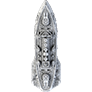
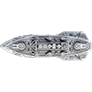
Animacion lista

diff --git a/War/Vessel.cs b/War/Vessel.cs
@@ -19,7 +19,7 @@ namespace War
             _CurrentInstruction = 0;
 
             _Id = rdn.Next(100, 999);
-            Grade = 90;
+            Grade = 0;
             Action = "STOP";
             Value = 0;
             Active = false;
@@ -241,7 +241,7 @@ namespace War
                     {
                         Active = false;
                         Action = "STOP";
-                        Grade = 90;
+                        Grade = 0;
                         Value = 0;
                     }
                 }
@@ -250,7 +250,7 @@ namespace War
                     Console.WriteLine(e.ToString());
                     Action = "STOP";
                     Active = false;
-                    Grade = 90;
+                    Grade = 0;
                     Value = 0;
                 }
             }         
@@ -269,20 +269,29 @@ namespace War
         //Pendiente
         private void shoot(float pValor, float pGrado)
         {
-            Console.WriteLine("shooting");
             Bullet bullet = new Bullet(pValor, pGrado, this.PosX, this.PosY);
             Bullets.Add(bullet);
             UpdateBullets();
         }
         public void move()
         {
-            Console.WriteLine("moving from: " + PosX + "x" + PosY);
-            float nPosX = PosX + (float)Math.Sin(Grade);
-            float nPosY = PosY - (float)Math.Cos(Grade);
+            float nPosX = 0;
+            float nPosY = 0;
+            //Console.WriteLine("moving from: " + PosX + "x" + PosY);
+            if (Grade >= 0 && Grade < 180)
+            {
+                nPosX = PosX + (float)Math.Cos(Grade * Math.PI / 180);
+                nPosY = PosY + (float)Math.Sin(Grade * Math.PI / 180);
+            }
+            else
+            {
+                nPosX = PosX - (float)Math.Cos(Grade * Math.PI / 180);
+                nPosY = PosY - (float)Math.Sin(Grade * Math.PI / 180);
+            }
             if(nPosX>0 && nPosX<=610 && nPosY>0 && nPosY<=610){
                 PosX = nPosX;
                 PosY = nPosY;
-                Console.WriteLine("moving to: " + PosX + "x" + PosY);
+                //Console.WriteLine("moving to: " + PosX + "x" + PosY);
                 Value -= 0.4f;
             }
             else

diff --git a/War/GameWindow.cs b/War/GameWindow.cs
@@ -89,26 +89,16 @@ namespace War
                             image = new Bitmap(global::War.Properties.Resources.barco3);
                             break;
                     }
-                    Console.WriteLine("Barco: " + currentVessel + " Action: " + vessel.Action + " Grado: " + vessel.Grade + " Valor: " + vessel.Value);
+                    //Console.WriteLine("Barco: " + currentVessel + " Action: " + vessel.Action + " Grado: " + vessel.Grade + " Valor: " + vessel.Value);
                     image = RotateImage(image, vessel.Grade);
                     graphics.DrawImage(image, vessel.PosX, vessel.PosY);
                     int currentBullet = 0;
-                    /*while (currentBullet < vessel.Bullets.Count)
+                    while (currentBullet < vessel.Bullets.Count)
                     {
                         Bullet bullet = vessel.Bullets[currentBullet];
-                        float tempX = bullet.PosX;
-                        float tempY = bullet.PosY;
-                        for (int xCounter = 0; xCounter < image.Width / 2; xCounter++)
-                        {
-                            tempX += (float)Math.Cos(vessel.Grade);
-                        }
-                        for (int yCounter = 0; yCounter < image.Height / 2; yCounter++)
-                        {
-                            tempY -= (float)Math.Sin(vessel.Grade);
-                        }
-                        graphics.DrawRectangle(pen, tempX, tempY, 2, 2);
+                        graphics.DrawRectangle(pen, bullet.PosX, bullet.PosY, 2, 2);
                         currentBullet++;
-                    }*/
+                    }
                 }
                 currentVessel++;
             }

diff --git a/War/Bullet.cs b/War/Bullet.cs
@@ -66,9 +66,17 @@ namespace War
         //Function
         public void move()
         {
-            PosX += (float)Math.Sin(Grade)*4;
-            PosY -= (float)Math.Cos(Grade)*4;
-            Value -= 0.4f;
+            if (Grade >= 0 && Grade < 180)
+            {
+                PosX += ((float)Math.Cos(Grade * Math.PI / 180) * 4);
+                PosY += ((float)Math.Sin(Grade * Math.PI / 180) * 4);
+            }
+            else
+            {
+                PosX -= ((float)Math.Cos(Grade * Math.PI / 180) * 4);
+                PosY -= ((float)Math.Sin(Grade * Math.PI / 180) * 4);
+            }
+            Value -= 0.1f;
         }
 
         private float _PosX;
